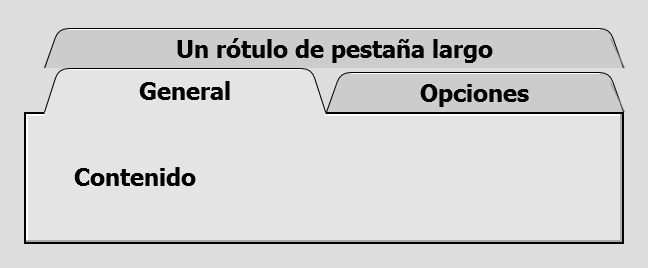
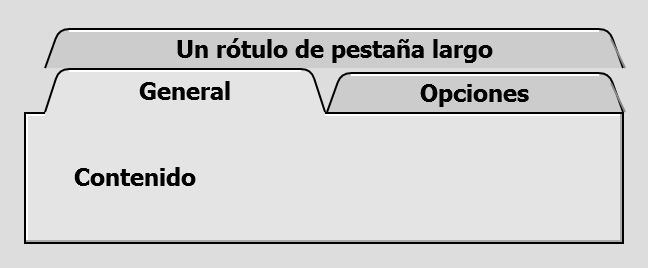
Empareja el contorno de la pestaña con los demás marcos
La pluma medía un píxel físico fijo, así que a 200 % la pestaña salía con
la mitad del trazo de todo lo demás, que sale de un BorderThickness de una
unidad. Ahora mide una unidad lógica redondeada a píxeles enteros, y el
realce y la sombra del costado se desplazan con ella.

La barra de herramientas arranca pegada al marco: se le quita el aire de
los costados y el ancho mínimo de la tecla, que era lo que separaba la
primera del filo. El triángulo del panel plegable crece de cuatro a siete
escalones, que son píxeles físicos y a 200 % se quedaba chico frente al
texto.

En la galería los paneles plegables se mudan al riel izquierdo: en la
columna derecha le robaban el alto a los mandos y recortaban el primer
botón.

diff --git a/src/MacOS9.Platinum.Gallery/MainWindow.xaml b/src/MacOS9.Platinum.Gallery/MainWindow.xaml
@@ -98,6 +98,22 @@
                     </StackPanel>
                 </GroupBox>
 
+                <!-- Paneles plegables: el triángulo del Finder con el título subrayado.
+                     Van en el riel izquierdo porque es la lista de arriba la que tiene
+                     holgura para cederles alto. -->
+                <Expander DockPanel.Dock="Bottom" Header="Sample Info" IsExpanded="True"
+                          Margin="0,10,0,0">
+                    <StackPanel>
+                        <TextBlock Text="Batch: PX-4471" />
+                        <TextBlock Text="Matrix: Aqueous" Margin="0,2,0,0" />
+                        <TextBlock Text="Prepared: 12 Nov 2026" Margin="0,2,0,0" />
+                    </StackPanel>
+                </Expander>
+
+                <Expander DockPanel.Dock="Bottom" Header="Storage" Margin="0,6,0,0">
+                    <TextBlock Text="4.3 MB used on disk" />
+                </Expander>
+
                 <GroupBox Header="Sample Sets">
                     <TreeView BorderThickness="0">
                         <TreeViewItem Header="Steel Alloys" IsExpanded="True">
@@ -232,27 +248,17 @@
                     </StackPanel>
                 </GroupBox>
 
-                <!-- Paneles plegables: el triángulo del Finder con el título subrayado -->
-                <Expander DockPanel.Dock="Top" Header="Sample Info" IsExpanded="True"
-                          Margin="0,10,0,0">
-                    <StackPanel>
-                        <TextBlock Text="Batch: PX-4471" />
-                        <TextBlock Text="Matrix: Aqueous" Margin="0,2,0,0" />
-                        <TextBlock Text="Prepared: 12 Nov 2026" Margin="0,2,0,0" />
-                    </StackPanel>
-                </Expander>
-
-                <Expander DockPanel.Dock="Top" Header="Storage" Margin="0,6,0,0">
-                    <TextBlock Text="4.3 MB used on disk" />
-                </Expander>
-
-                <StackPanel VerticalAlignment="Bottom">
+                <!-- Los mandos van antes que los plegables en el orden del DockPanel:
+                     así reservan su alto y lo que se aprieta al faltar espacio es el
+                     panel plegable, que para eso se pliega. -->
+                <StackPanel DockPanel.Dock="Bottom" Margin="0,10,0,0">
                     <Button Content="Calibrate..." Margin="0,0,0,8" Click="OnCalibrate"
                             ToolTip="Runs the standard against the reference lines." />
                     <Button Content="Export Results..." Margin="0,0,0,8" Click="OnExport" />
                     <Button Content="Instrument..." Click="OnInstrument"
                             ToolTip="Connection and credentials for the bench controller." />
                 </StackPanel>
+
             </DockPanel>
 
             <!-- Pie: la tecla por omisión, con su anillo -->

diff --git a/src/MacOS9.Platinum/Themes/ToolBar.xaml b/src/MacOS9.Platinum/Themes/ToolBar.xaml
@@ -16,8 +16,9 @@
         <Setter Property="FontSize" Value="{StaticResource SmallFontSize}" />
         <Setter Property="Foreground" Value="{StaticResource TextBrush}" />
         <Setter Property="FocusVisualStyle" Value="{x:Null}" />
-        <Setter Property="MinWidth" Value="64" />
-        <Setter Property="Padding" Value="10,4,10,3" />
+        <!-- Sin ancho mínimo: la tecla mide lo que mide su rótulo. Un mínimo fijo   -->
+        <!-- metía aire a los lados y separaba la primera tecla del marco.          -->
+        <Setter Property="Padding" Value="6,4,6,3" />
         <Setter Property="SnapsToDevicePixels" Value="True" />
         <Setter Property="UseLayoutRounding" Value="True" />
         <Setter Property="Template">
@@ -80,7 +81,9 @@
     <Style TargetType="{x:Type ToolBar}">
         <Setter Property="Background" Value="{StaticResource WindowFaceBrush}" />
         <Setter Property="Foreground" Value="{StaticResource TextBrush}" />
-        <Setter Property="Padding" Value="6,0" />
+        <!-- Sin aire a los costados: la primera tecla arranca pegada al marco, como -->
+        <!-- la barra de menús. El aire de cada tecla lo pone la tecla.              -->
+        <Setter Property="Padding" Value="0" />
         <Setter Property="SnapsToDevicePixels" Value="True" />
         <Setter Property="UseLayoutRounding" Value="True" />
         <Setter Property="Template">

diff --git a/src/MacOS9.Platinum/Themes/Expander.xaml b/src/MacOS9.Platinum/Themes/Expander.xaml
@@ -27,7 +27,7 @@
                         <controls:ArrowGlyph x:Name="Glyph"
                                              Grid.Column="0"
                                              Direction="Right"
-                                             Steps="4"
+                                             Steps="7"
                                              Fill="{StaticResource TextBrush}"
                                              Margin="0,0,5,0"
                                              VerticalAlignment="Center" />

diff --git a/src/MacOS9.Platinum/Controls/TabShape.cs b/src/MacOS9.Platinum/Controls/TabShape.cs
@@ -168,12 +168,19 @@ public class TabShape : FrameworkElement
         double scale = DeviceScale.Of(this).X;
         double pixel = 1d / scale;
 
+        // El contorno mide una unidad lógica, redondeada a píxeles enteros: uno a
+        // escala normal y dos al 200 %. Fijarlo en un píxel físico dejaba la pestaña
+        // con el filo a la mitad del grosor de los demás marcos del tema, que salen
+        // de un BorderThickness de una unidad.
+        double grosor = Math.Max(1d, Math.Round(scale)) * pixel;
+        double medio = grosor / 2d;
+
         // Ajuste a la rejilla de píxeles físicos. El trazo se pinta centrado, de ahí
-        // el medio píxel: así el filo cae entero sobre una columna de píxeles y no
+        // el medio grosor: así el filo cae entero sobre una columna de píxeles y no
         // repartido entre dos.
-        double left = 0.5d * pixel;
-        double top = 0.5d * pixel;
-        double right = (Math.Round(ActualWidth * scale) - 0.5d) * pixel;
+        double left = medio;
+        double top = medio;
+        double right = (Math.Round(ActualWidth * scale) * pixel) - medio;
         double bottom = Math.Round(ActualHeight * scale) * pixel;
 
         double slant = Math.Round(Slant * scale) * pixel;
@@ -186,7 +193,7 @@ public class TabShape : FrameworkElement
             slant = Math.Max(0d, room);
         }
 
-        var pen = new Pen(Stroke, pixel);
+        var pen = new Pen(Stroke, grosor);
 
         dc.DrawGeometry(Fill, null, BuildGeometry(left, top, right, bottom, slant, radius, closed: true));
 
@@ -205,17 +212,17 @@ public class TabShape : FrameworkElement
         if (HighlightBrush is not null)
         {
             dc.DrawLine(
-                new Pen(HighlightBrush, pixel),
-                new Point(left + slant + radius, top + pixel),
-                new Point(right - slant - radius, top + pixel));
+                new Pen(HighlightBrush, grosor),
+                new Point(left + slant + radius, top + grosor),
+                new Point(right - slant - radius, top + grosor));
         }
 
         if (ShadowBrush is not null)
         {
             dc.DrawLine(
-                new Pen(ShadowBrush, pixel),
-                new Point(right - slant + pixel, top + radius),
-                new Point(right + pixel, bottom));
+                new Pen(ShadowBrush, grosor),
+                new Point(right - slant + grosor, top + radius),
+                new Point(right + grosor, bottom));
         }
     }
 

diff --git a/README.md b/README.md
@@ -150,7 +150,10 @@ display the result comes out asymmetric or blurry:
 
 Tabs (`Controls/TabShape.cs`) are the deliberate exception: their diagonals and
 curves need anti-aliasing, so they are drawn as vectors and only the straight runs
-are snapped to the grid, the same way `Border` does for buttons.
+are snapped to the grid, the same way `Border` does for buttons. Their outline is
+one logical unit rounded to whole pixels — one at normal scale, two at 200% —
+because a pen fixed at one physical pixel left the tab with half the stroke of
+every other frame in the theme, all of which come from a `BorderThickness` of one.
 
 The theme also sets `TextOptions.TextFormattingMode="Display"`, because WPF's
 `Ideal` mode positions stems on fractional pixels, and at 11 px a one-pixel stroke
